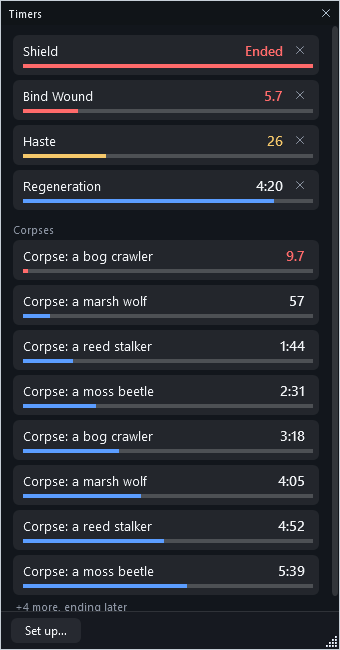
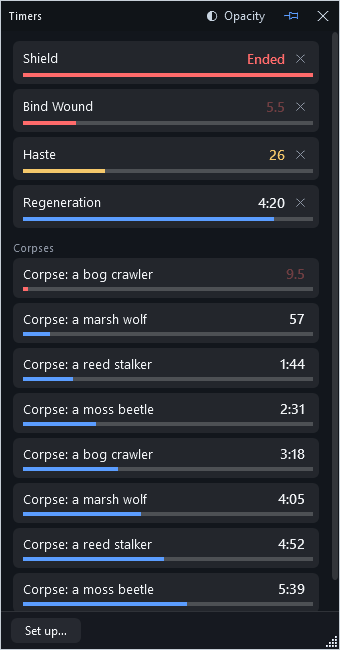
Timers window: its own pin (on top of the game) and an Opacity button
- A pin in the title bar, on by default, keeps the window on top; it is the accent colour
  while on, like the main window's.
- An Opacity button fades the window's background in steps down to 10% so the game shows
  through; the bars and words stay solid and the title bar never fades below a floor, so
  the window can always be found and dragged. The window is now a layered (transparent) one.
- The title bar buttons are the bigger themed ones, like the main window's.

diff --git a/src/MnMCompanion/TimersWindow.cs b/src/MnMCompanion/TimersWindow.cs
@@ -31,6 +31,9 @@ internal sealed class TimersWindow : Window
     private string? _loadedFolder;
     private bool _followed;
     private TimerSetupWindow? _setup;
+    private readonly Button _pin;
+    private readonly DockPanel _title;
+    private readonly Border _bottom;
     private readonly StackPanel _rows = new();
     private readonly Dictionary<string, Row> _live = new(StringComparer.OrdinalIgnoreCase);
     private readonly StackPanel _corpseRows = new();
@@ -63,6 +66,7 @@ internal sealed class TimersWindow : Window
         Title = "Companion timers";
         WindowStyle = WindowStyle.None;
         ResizeMode = ResizeMode.CanResizeWithGrip;
+        AllowsTransparency = true;   // so the background can be faded (see ApplyLook); the bars and words stay solid
         WindowChrome.SetWindowChrome(this, new WindowChrome
         {
             CaptionHeight = 0, ResizeBorderThickness = new Thickness(5), GlassFrameThickness = new Thickness(0),
@@ -71,7 +75,7 @@ internal sealed class TimersWindow : Window
         Background = new SolidColorBrush(Color.FromRgb(0x12, 0x16, 0x1C));
         BorderBrush = new SolidColorBrush(Color.FromArgb(0x80, 0x90, 0xA0, 0xB0));
         BorderThickness = new Thickness(1);
-        Topmost = settings.OnTop;
+        Topmost = settings.TimersOnTop;
         MinWidth = 250;
         MinHeight = 110;
         UseLayoutRounding = true;
@@ -87,12 +91,19 @@ internal sealed class TimersWindow : Window
         Top = double.IsNaN(b.Top) ? work.Top + 80 : b.Top;
         KeepOnScreen();
 
-        var close = TitleButton("", "Hide this window. Timers keep running, and keep beeping if Sound is on.", HideWindow);
+        var close = TitleButton("\uE711", "Hide this window. Timers keep running and keep playing their sounds.", HideWindow);
+        _pin = TitleButton("\uE718", "Keep this window on top of the game", TogglePin);
+        var opacity = OpacityButton();
         var caption = new TextBlock { Text = "Timers", Foreground = new SolidColorBrush(Color.FromRgb(0xE6, 0xEA, 0xEE)), FontSize = 11, VerticalAlignment = VerticalAlignment.Center, Margin = new Thickness(8, 0, 6, 0) };
-        var title = new DockPanel { Background = new SolidColorBrush(Color.FromRgb(0x10, 0x14, 0x18)), Height = 24, Cursor = Cursors.SizeAll, LastChildFill = false };
+        var title = new DockPanel { Background = new SolidColorBrush(Color.FromRgb(0x10, 0x14, 0x18)), Height = 30, Cursor = Cursors.SizeAll, LastChildFill = false };
+        _title = title;
         DockPanel.SetDock(close, Dock.Right);
+        DockPanel.SetDock(_pin, Dock.Right);
+        DockPanel.SetDock(opacity, Dock.Right);
         DockPanel.SetDock(caption, Dock.Left);
         title.Children.Add(close);
+        title.Children.Add(_pin);
+        title.Children.Add(opacity);
         title.Children.Add(caption);
         title.MouseLeftButtonDown += (_, e) => { if (e.ButtonState == MouseButtonState.Pressed && e.OriginalSource is not Button) DragMove(); };
 
@@ -112,6 +123,7 @@ internal sealed class TimersWindow : Window
         scroll.Content = body;
 
         var bottom = BuildBottom();
+        _bottom = (Border)bottom;
         var root = new DockPanel();
         DockPanel.SetDock(title, Dock.Top);
         DockPanel.SetDock(bottom, Dock.Bottom);
@@ -119,6 +131,7 @@ internal sealed class TimersWindow : Window
         root.Children.Add(bottom);
         root.Children.Add(scroll);
         Content = root;
+        ApplyLook();
 
         if (!settings.ReadOnly) _hotkeys = MakeHotkeys();
 
@@ -150,6 +163,68 @@ internal sealed class TimersWindow : Window
     {
         _settings.TimersOpen = open;
         _settings.Save();
+    }
+
+    // ------------------------------------------------------------------ on top, and how see-through
+
+    private void TogglePin()
+    {
+        Topmost = !Topmost;
+        _settings.TimersOnTop = Topmost;
+        _settings.Save();
+        ApplyLook();
+    }
+
+    /// <summary>The button of the title bar that opens the menu of opacity levels: a half-filled circle and its name.</summary>
+    private Button OpacityButton()
+    {
+        var picture = new TextBlock { Text = "◐", FontFamily = new FontFamily("Segoe UI Symbol"), FontSize = 14, VerticalAlignment = VerticalAlignment.Center };
+        var words = new TextBlock { Text = "Opacity", FontFamily = new FontFamily("Segoe UI Variable Text, Segoe UI"), FontSize = 12, Margin = new Thickness(6, 0, 0, 0), VerticalAlignment = VerticalAlignment.Center };
+        var content = new StackPanel { Orientation = Orientation.Horizontal, Margin = new Thickness(8, 0, 9, 0) };
+        content.Children.Add(picture);
+        content.Children.Add(words);
+        var button = new Button
+        {
+            Content = content, Style = (Style)Ui.Theme["IconButton"], Width = double.NaN, MinWidth = 30, Height = 24, Margin = new Thickness(1, 0, 1, 0),
+            Foreground = new SolidColorBrush(Color.FromRgb(0xC8, 0xD4, 0xE0)), VerticalAlignment = VerticalAlignment.Center,
+            ToolTip = "How see-through the window is behind its bars and words, so the game shows through",
+        };
+        button.Click += (_, _) =>
+        {
+            var menu = new ContextMenu { PlacementTarget = button, Placement = System.Windows.Controls.Primitives.PlacementMode.Bottom };
+            menu.Items.Add(new MenuItem { Header = "Background", IsEnabled = false });
+            int current = TimerLook.Nearest(_settings.TimersOpacity);
+            foreach (var level in TimerLook.OpacityLevels)
+            {
+                var item = new MenuItem { Header = level == 100 ? "Solid" : $"{level}% solid", IsChecked = level == current };
+                int chosen = level;
+                item.Click += (_, _) => SetOpacity(chosen);
+                menu.Items.Add(item);
+            }
+            menu.IsOpen = true;
+        };
+        return button;
+    }
+
+    private void SetOpacity(int percent)
+    {
+        _settings.TimersOpacity = percent;
+        _settings.Save();
+        ApplyLook();
+    }
+
+    /// <summary>
+    /// Paints the window for the pin and the opacity chosen: only the background fades. The title bar keeps enough of itself to be grabbed, and the pin is
+    /// the accent colour while the window is on top (as the main window's is).
+    /// </summary>
+    private void ApplyLook()
+    {
+        int percent = _settings.TimersOpacity;
+        Background = new SolidColorBrush(Color.FromArgb(TimerLook.Alpha(percent), 0x12, 0x16, 0x1C));
+        _bottom.Background = new SolidColorBrush(Color.FromArgb(TimerLook.Alpha(percent), 0x16, 0x19, 0x20));
+        _title.Background = new SolidColorBrush(Color.FromArgb(TimerLook.TitleAlpha(percent), 0x10, 0x14, 0x18));
+        _pin.Foreground = Topmost ? new SolidColorBrush(Palette.AccentColor) : new SolidColorBrush(Color.FromRgb(0x70, 0x7A, 0x88));
+        _pin.ToolTip = Topmost ? "On top of the game. Click to let other windows cover it." : "Not on top. Click to keep this window on top of the game.";
     }
 
     // ------------------------------------------------------------------ the setup window and what it changes
@@ -365,8 +440,7 @@ internal sealed class TimersWindow : Window
         DockPanel.SetDock(clock, Dock.Right);
         if (stoppable)
         {
-            var stop = TitleButton("", "Stop this timer", () => { _book.Stop(id); SaveBook(); Tick(); });
-            stop.Foreground = new SolidColorBrush(Color.FromRgb(0x8B, 0x93, 0xA1));
+            var stop = RowButton("\uE711", "Stop this timer", () => { _book.Stop(id); SaveBook(); Tick(); });
             DockPanel.SetDock(stop, Dock.Right);
             top.Children.Add(stop);
         }
@@ -405,14 +479,22 @@ internal sealed class TimersWindow : Window
         return button;
     }
 
+    /// <summary>A button of a title bar: a picture big enough to see, with the theme's hover highlight.</summary>
     internal static Button TitleButton(string glyph, string tip, Action click)
     {
         var b = new Button
         {
-            Content = glyph, Width = 26, Padding = new Thickness(0), Background = Brushes.Transparent, BorderThickness = new Thickness(0), FontSize = 10,
-            FontFamily = new FontFamily("Segoe Fluent Icons, Segoe MDL2 Assets"), Foreground = new SolidColorBrush(Color.FromRgb(0xB0, 0xC0, 0xD0)),
-            Cursor = Cursors.Hand, Focusable = false, ToolTip = tip,
+            Content = glyph, Style = (Style)Ui.Theme["IconButton"], Width = 30, Height = 24, Margin = new Thickness(1, 0, 1, 0), FontSize = 14,
+            Foreground = new SolidColorBrush(Color.FromRgb(0xC8, 0xD4, 0xE0)), ToolTip = tip, VerticalAlignment = VerticalAlignment.Center,
         };
+        b.Click += (_, _) => click();
+        return b;
+    }
+
+    /// <summary>The small button on a timer's bar.</summary>
+    private static Button RowButton(string glyph, string tip, Action click)
+    {
+        var b = new Button { Content = glyph, Style = (Style)Ui.Theme["IconButton"], Width = 24, Height = 22, FontSize = 11, ToolTip = tip, Foreground = new SolidColorBrush(Color.FromRgb(0x8B, 0x93, 0xA1)) };
         b.Click += (_, _) => click();
         return b;
     }

diff --git a/src/MnMCompanion/App.xaml.cs b/src/MnMCompanion/App.xaml.cs
@@ -457,7 +457,7 @@ public partial class App : Application
             try
             {
                 var corpses = TimersSample(folder);
-                var settings = new Settings { ReadOnly = true };
+                var settings = new Settings { ReadOnly = true, TimersOpacity = int.TryParse(args.Opacity, out var opacity) ? opacity : 100 };
                 var timers = new TimersWindow(settings, () => folder, () => corpses);
                 Window window = args.TimersSetup
                     ? new TimerSetupWindow(timers, settings) { WindowStartupLocation = WindowStartupLocation.Manual, ShowInTaskbar = false }
@@ -541,7 +541,7 @@ public partial class App : Application
 
 /// <summary>Command line: <c>--no-share-prompt</c> to start without asking about sharing (for scripts and pictures); <c>--share</c> to open the "Share data with the community" window as the app starts; <c>--contribute &lt;file or folder&gt;</c> to save the file you can share with the community data and quit; <c>--history</c> to open the History window as the app starts; <c>--about [--report &lt;file&gt;]</c> to write the version and paths to a file and quit; <c>--archive [--db &lt;file&gt;] [--report &lt;file&gt;]</c> to copy every ledger row into the database and quit; <c>--ledger &lt;folder&gt;</c> <c>--character &lt;name&gt;</c> and, for a picture instead of a window, <c>--snapshot &lt;png&gt; [--view Value|Items|Mobs|Feed] [--day yyyy-MM-dd] [--size WxH] [--window [--preview-update]]</c>, or <c>--snapshot &lt;png&gt; --breakdown [--page Loot|Trades|Vendors|Changes|Harvest] [--member name] [--tab Looters|Items|Mobs|"Drop rates"|"Loot log"|Sales|Purchases|"Price book"|Log|...] [--drop "a monster"] [--period "7 days"] [--size WxH]</c> for the History window.</summary>
 internal sealed record Args(string? Ledger, string? Character, string? Snapshot, string? View, DateOnly? Day, int Width, int Height, bool Window, bool Breakdown, string? Member, string? Tab,
-    bool Archive = false, string? Db = null, string? Report = null, bool About = false, bool PreviewUpdate = false, string? Page = null, string? Drop = null, string? Period = null, bool History = false, string? Contribute = null, bool Share = false, bool NoSharePrompt = false, string? Mini = null, bool Diagnose = false, bool Timers = false, bool TimersSetup = false)
+    bool Archive = false, string? Db = null, string? Report = null, bool About = false, bool PreviewUpdate = false, string? Page = null, string? Drop = null, string? Period = null, bool History = false, string? Contribute = null, bool Share = false, bool NoSharePrompt = false, string? Mini = null, bool Diagnose = false, bool Timers = false, bool TimersSetup = false, string? Opacity = null)
 {
     public static Args Parse(string[] args)
     {
@@ -550,6 +550,6 @@ internal sealed record Args(string? Ledger, string? Character, string? Snapshot,
         if (Value("--size") is { } size && size.Split('x') is [var sw, var sh] && int.TryParse(sw, out var pw) && int.TryParse(sh, out var ph)) (w, h) = (pw, ph);
         DateOnly? day = DateOnly.TryParse(Value("--day"), out var d) ? d : null;
         return new Args(Value("--ledger"), Value("--character"), Value("--snapshot"), Value("--view"), day, w, h, args.Contains("--window"), args.Contains("--breakdown"), Value("--member"), Value("--tab"),
-            args.Contains("--archive"), Value("--db"), Value("--report"), args.Contains("--about"), args.Contains("--preview-update"), Value("--page"), Value("--drop"), Value("--period"), args.Contains("--history"), Value("--contribute"), args.Contains("--share"), args.Contains("--no-share-prompt"), Value("--mini"), args.Contains("--diagnose"), args.Contains("--timers"), args.Contains("--timers-setup"));
+            args.Contains("--archive"), Value("--db"), Value("--report"), args.Contains("--about"), args.Contains("--preview-update"), Value("--page"), Value("--drop"), Value("--period"), args.Contains("--history"), Value("--contribute"), args.Contains("--share"), args.Contains("--no-share-prompt"), Value("--mini"), args.Contains("--diagnose"), args.Contains("--timers"), args.Contains("--timers-setup"), Value("--opacity"));
     }
 }

diff --git a/tests/MnMCompanion.Tests/TimerLookTests.cs b/tests/MnMCompanion.Tests/TimerLookTests.cs
@@ -1,0 +1,52 @@
+using MnMCompanion.Timers;
+
+namespace MnMCompanion.Tests;
+
+/// <summary>How see-through the timers window can be: what the levels are, that nothing saved can break it, and that the title bar can always be grabbed.</summary>
+public class TimerLookTests
+{
+    [Theory]
+    [InlineData(100, 255)]
+    [InlineData(50, 128)]
+    [InlineData(25, 64)]
+    [InlineData(10, 26)]
+    [InlineData(5, 13)]
+    public void A_percent_is_the_alpha_of_the_background(int percent, int alpha) => Assert.Equal(alpha, TimerLook.Alpha(percent));
+
+    [Theory]
+    [InlineData(0, 5)]
+    [InlineData(-40, 5)]
+    [InlineData(3, 5)]
+    [InlineData(70, 70)]
+    [InlineData(100, 100)]
+    [InlineData(250, 100)]
+    public void What_is_saved_is_held_to_what_can_be_used_so_the_window_can_never_be_made_unclickable(int saved, int used) => Assert.Equal(used, TimerLook.ClampOpacity(saved));
+
+    [Fact]
+    public void The_title_bar_keeps_enough_of_itself_to_be_found_and_grabbed()
+    {
+        Assert.Equal(255, TimerLook.TitleAlpha(100));
+        Assert.True(TimerLook.TitleAlpha(5) >= TimerLook.TitleFloor);
+        Assert.True(TimerLook.TitleAlpha(10) >= TimerLook.TitleFloor);
+        foreach (var level in TimerLook.OpacityLevels) Assert.True(TimerLook.TitleAlpha(level) >= TimerLook.Alpha(level));
+        Assert.True(TimerLook.Alpha(TimerLook.MinOpacity) > 0, "a layered window can't be clicked where it is wholly clear");
+    }
+
+    [Fact]
+    public void The_levels_go_from_solid_down_and_each_is_usable()
+    {
+        Assert.Equal(100, TimerLook.OpacityLevels[0]);
+        Assert.Equal(TimerLook.OpacityLevels.OrderByDescending(l => l), TimerLook.OpacityLevels);
+        Assert.All(TimerLook.OpacityLevels, l => Assert.Equal(l, TimerLook.ClampOpacity(l)));
+        Assert.Equal(TimerLook.OpacityLevels.Count, TimerLook.OpacityLevels.Distinct().Count());
+    }
+
+    [Theory]
+    [InlineData(100, 100)]
+    [InlineData(80, 85)]
+    [InlineData(30, 25)]
+    [InlineData(1, 10)]
+    [InlineData(60, 55)]
+    [InlineData(500, 100)]
+    public void A_saved_value_between_levels_shows_as_the_nearest_one_in_the_menu(int saved, int shown) => Assert.Equal(shown, TimerLook.Nearest(saved));
+}

diff --git a/src/MnMCompanion.Core/Timers/TimerLook.cs b/src/MnMCompanion.Core/Timers/TimerLook.cs
@@ -1,0 +1,29 @@
+namespace MnMCompanion.Timers;
+
+/// <summary>
+/// How see-through the timers window is. Only the window's background fades (the bars and the words stay solid, so they can be read over a bright game);
+/// the bar with the title and buttons never goes below <see cref="TitleFloor"/>, so there is always something to grab and the buttons stay in sight.
+/// </summary>
+public static class TimerLook
+{
+    /// <summary>The levels offered, as the percent of the background that is left (100 = solid).</summary>
+    public static readonly IReadOnlyList<int> OpacityLevels = [100, 85, 70, 55, 40, 25, 10];
+
+    /// <summary>The least that can be kept: at nothing a layered window can't be clicked on at all.</summary>
+    public const int MinOpacity = 5;
+
+    /// <summary>The title bar stays at least this opaque (of 255).</summary>
+    public const byte TitleFloor = 0xB0;
+
+    /// <summary>A percent held to what can be used (a saved file can hold anything).</summary>
+    public static int ClampOpacity(int percent) => Math.Clamp(percent, MinOpacity, 100);
+
+    /// <summary>The colour channel (0 to 255) for a percent.</summary>
+    public static byte Alpha(int percent) => (byte)Math.Round(ClampOpacity(percent) * 255 / 100.0);
+
+    /// <summary>The title bar's channel for a percent: the same, but never below <see cref="TitleFloor"/>.</summary>
+    public static byte TitleAlpha(int percent) => Math.Max(Alpha(percent), TitleFloor);
+
+    /// <summary>The offered level nearest to <paramref name="percent"/> (what the menu shows as chosen).</summary>
+    public static int Nearest(int percent) => OpacityLevels.OrderBy(l => Math.Abs(l - ClampOpacity(percent))).First();
+}

diff --git a/src/MnMCompanion/Settings.cs b/src/MnMCompanion/Settings.cs
@@ -45,6 +45,10 @@ public sealed class Settings
     public Bounds? Timers { get; set; }
     public bool TimersOpen { get; set; }
 
+    /// <summary>The timers window's own pin (on top of the game or not) and how solid its background is, in percent (see <c>TimerLook</c>).</summary>
+    public bool TimersOnTop { get; set; } = true;
+    public int TimersOpacity { get; set; } = 100;
+
     /// <summary>The page of the History window that was open last ("Loot", "Trades", "Vendors", "Changes" or "Harvest").</summary>
     public string? HistoryPage { get; set; }
 

diff --git a/README.md b/README.md
@@ -338,6 +338,10 @@ players' are not monsters and get none. The corpse timer can have a sound too, w
 **Sounds.** Pick from the sounds Windows plays for its own events, the alarms and rings that come with Windows, or any `.wav` file of your own. A sound plays when you pick it, so you can
 hear it before you keep it. A timer with no sound just ends quietly.
 
+**On top, and see-through.** The window has its own **pin**, on by default, so it stays on top of the game like the main window does (the game has to be in a window or borderless: nothing can
+draw over a game that has the whole screen to itself). The **Opacity** button fades the window's background in steps down to 10%, so the game shows through behind it while the bars and the words
+stay solid. The title bar never fades away completely, so you can always find the window and drag it.
+
 A running timer shows its time left and a bar that drains. It turns **gold for its last half minute**, **flashes red for its last ten seconds**, and shows **Ended** for a few seconds when
 it is over, playing its sound if it has one. Your timers are kept for each character, as the moment they end, in
 `%LOCALAPPDATA%\MnMCompanion\<server>-<character>\timers.json`, so they carry on if you close Companion. The **×** in the corner only hides the window: timers keep running (and playing their sounds),

diff --git a/docs/FAQ.md b/docs/FAQ.md
@@ -95,6 +95,10 @@ Yes, two kinds. You can name your own timers (a buff, a cooldown, food), give ea
 you loot**, with a name, a length and a sound of your choice. What it can't do is start a buff timer by itself: the game writes nothing about casts or buffs to any file Companion reads, so you
 start those yourself. (A tool that reads the game's memory could do it automatically; Companion deliberately never does that.)
 
+### Can the timers window stay on top and be see-through?
+Yes. It has its own pin (on by default) and an **Opacity** button that fades its background down to 10% while the bars and words stay solid, so you can read the timers over the game without hiding
+what is behind them. The game has to be in a window or borderless for any window to show on top of it.
+
 ### Will the key I give a timer stop working in the game?
 Yes, while Companion is running: Windows hands that key to Companion, so the game never receives it. Pick combinations the game doesn't use, such as `Ctrl+Alt+1`. (A letter or digit needs Ctrl or
 Alt with it for this reason.) Companion only hears the keys you set, can't see anything else you type, and never sends a key press.
